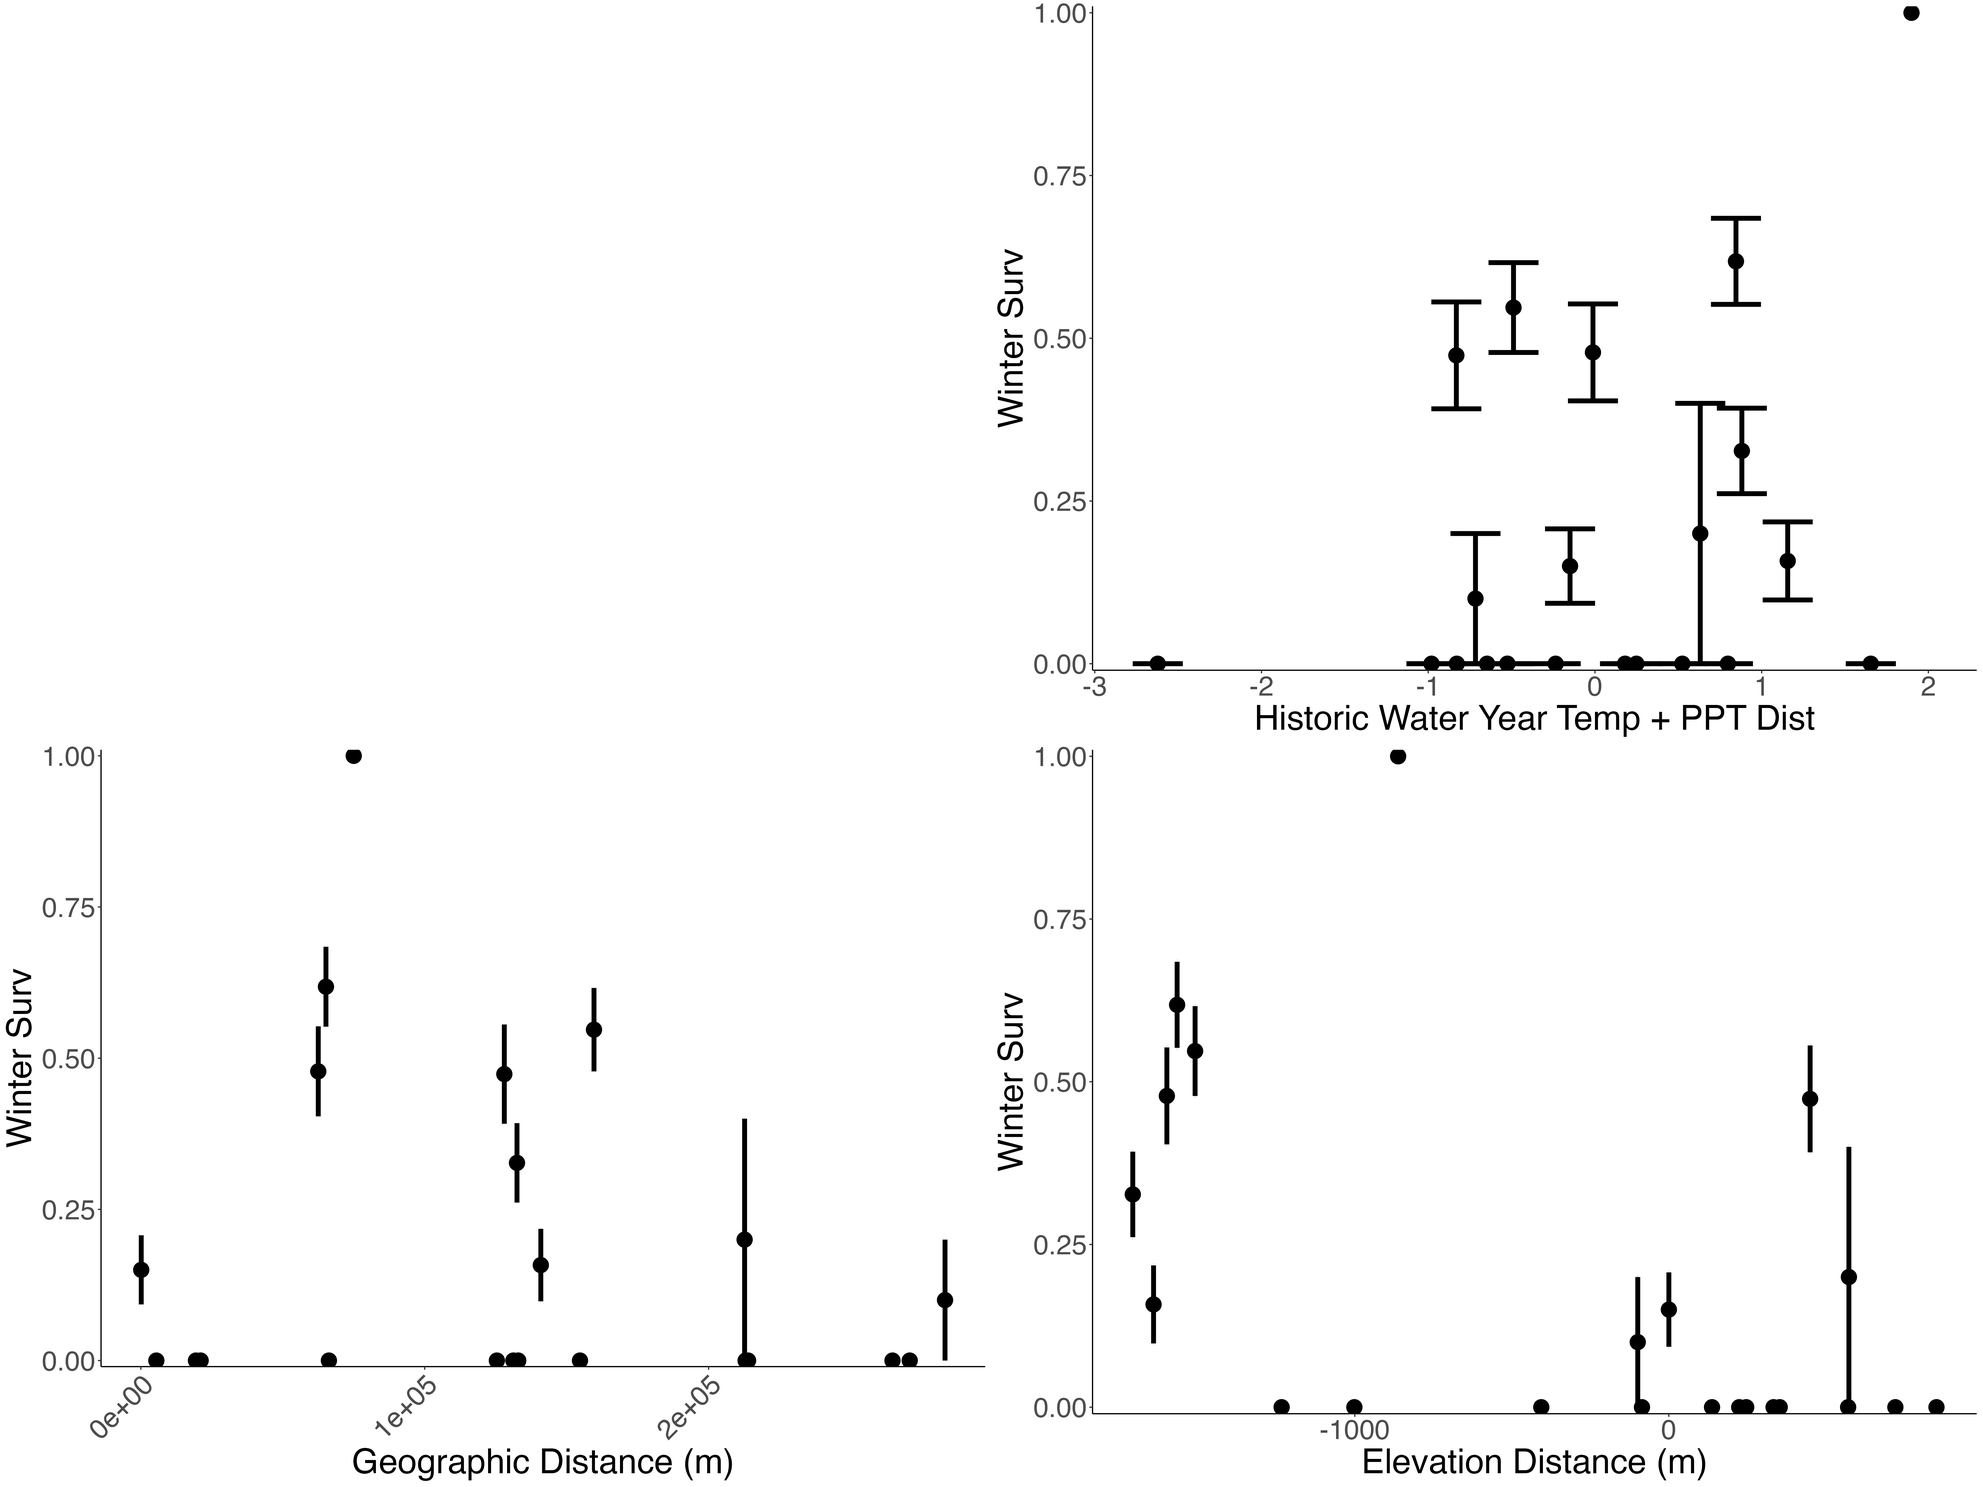
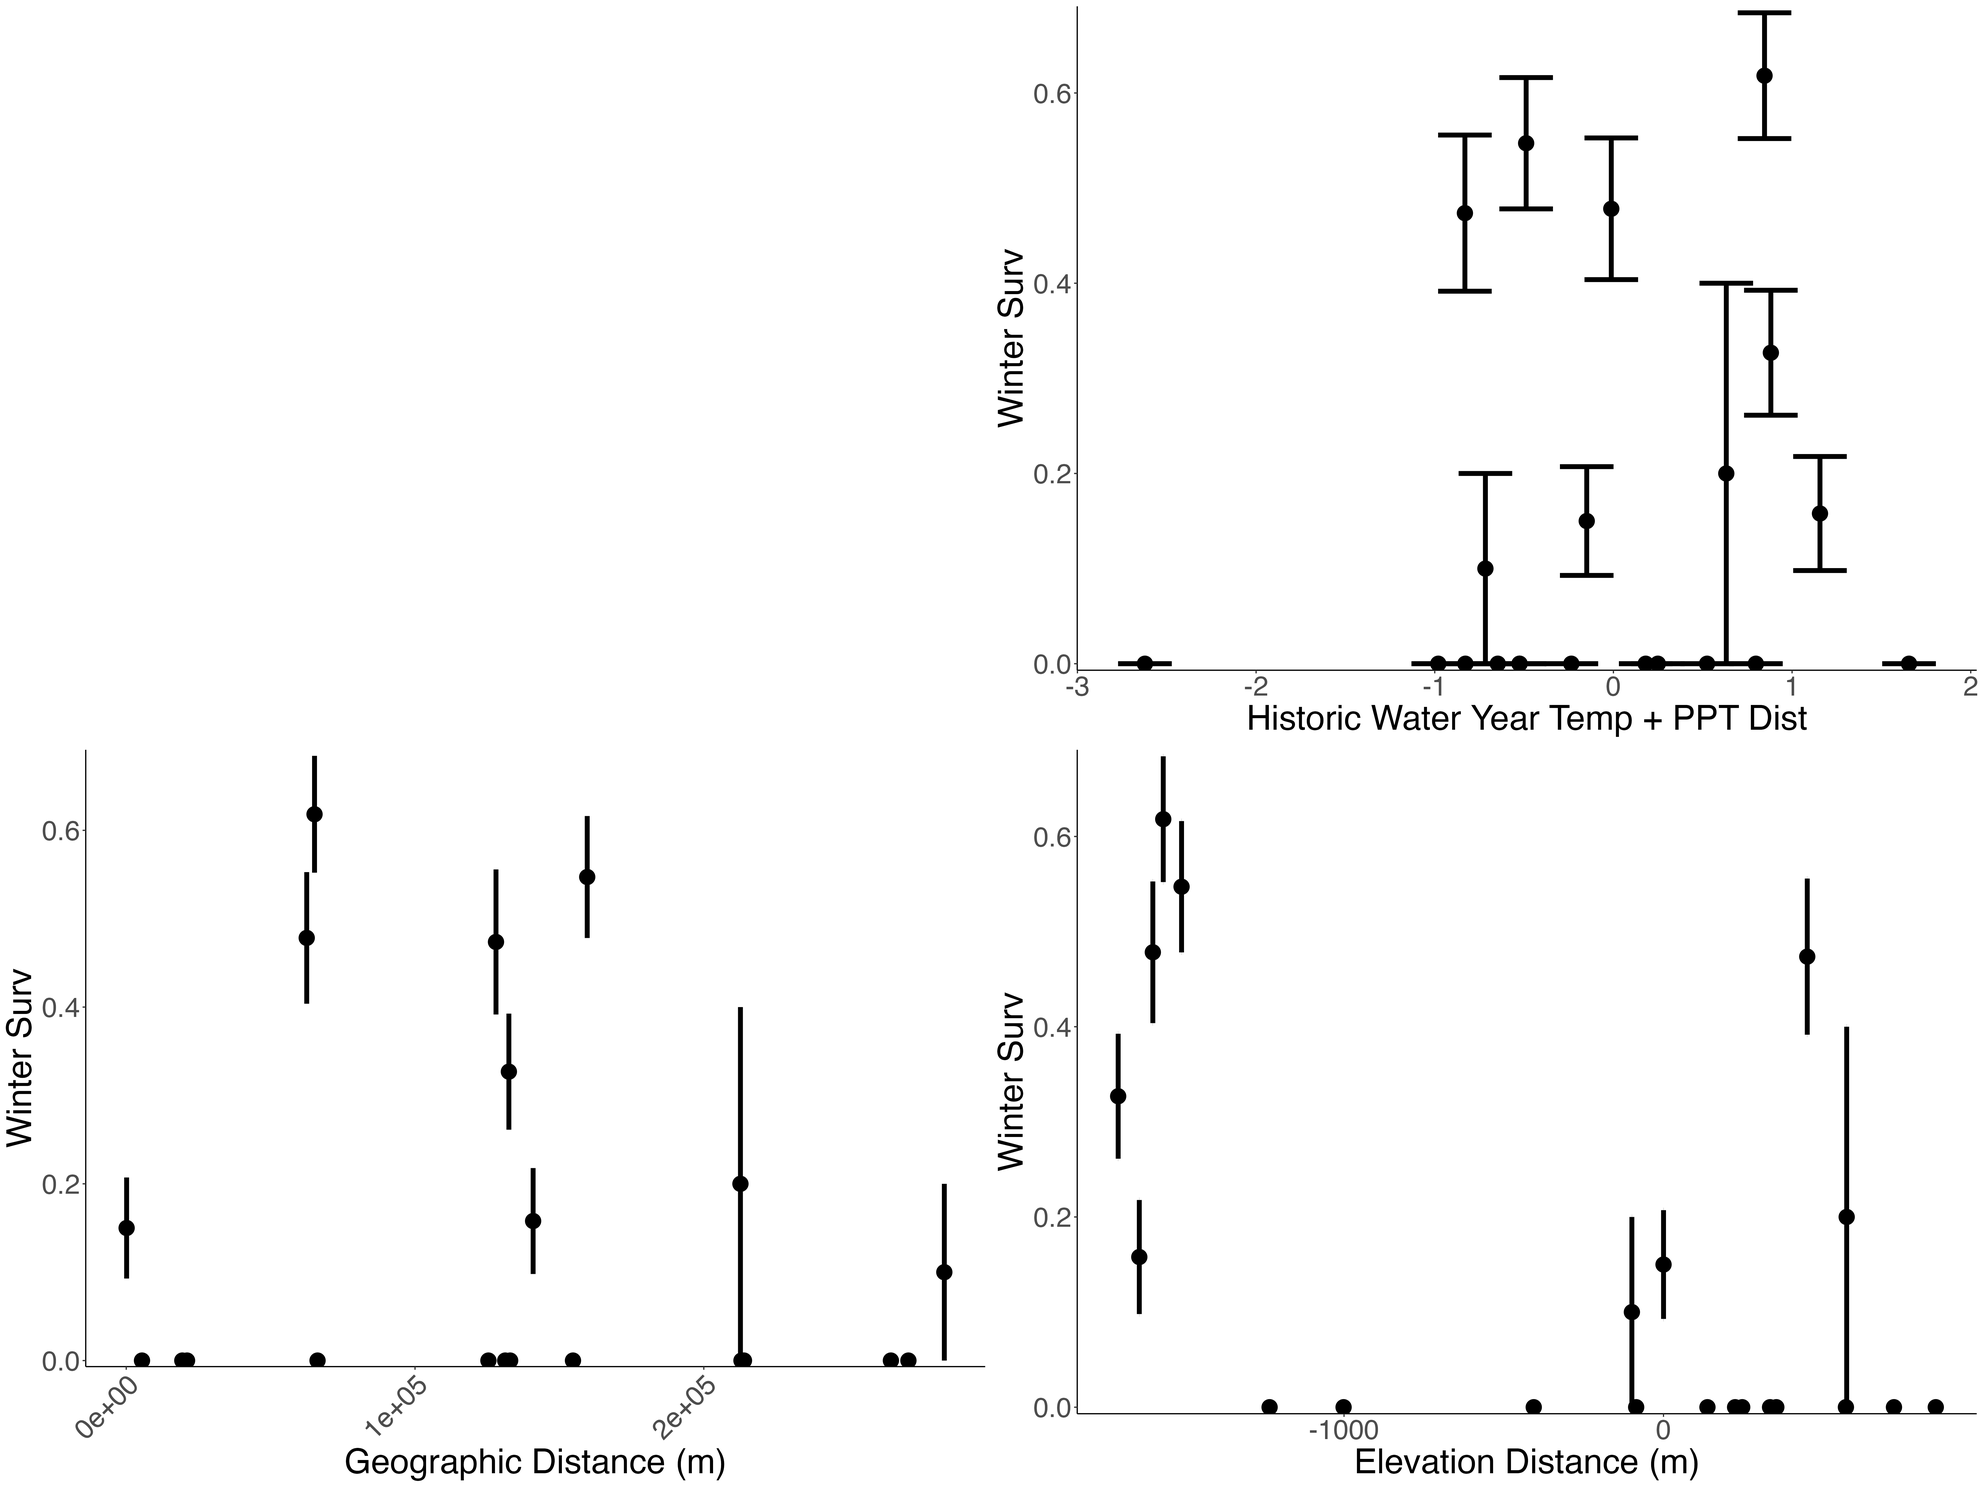
Removed WR from the scatter plots since it's not in the models.

diff --git a/scripts/WL2_OverWinter_Survival.html b/scripts/WL2_OverWinter_Survival.html
@@ -449,7 +449,7 @@ library(tidymodels)</code></pre>
 ## ✖ infer::t_test()       masks rstatix::t_test()
 ## ✖ Matrix::unpack()      masks tidyr::unpack()
 ## ✖ recipes::update()     masks Matrix::update(), stats::update()
-## • Use tidymodels_prefer() to resolve common conflicts.</code></pre>
+## • Learn how to get started at https://www.tidymodels.org/start/</code></pre>
 <pre class="r"><code>library(furrr) #Apply Mapping Functions in Parallel using Futures</code></pre>
 <pre><code>## Loading required package: future</code></pre>
 <pre class="r"><code>tidymodels_prefer()
@@ -679,7 +679,8 @@ xtabs(~WinterSurv, data=winter_surv) #334 dead post-winter out of 469 alive pre-
 <div id="scatterplots" class="section level3">
 <h3>Scatterplots</h3>
 <pre class="r"><code>#scatter plots
-WYCD_recent &lt;- winter_surv %&gt;% 
+WYCD_recent &lt;- winter_surv %&gt;%
+  filter(pop!=&quot;WR&quot;) %&gt;% 
   group_by(pop, elev_m, Wtr_Year_GD_Recent) %&gt;% 
   summarise(meanSurv=mean(WinterSurv, na.rm = TRUE), semSurv=sem(WinterSurv, na.rm=TRUE)) %&gt;% 
   ggplot(aes(x=Wtr_Year_GD_Recent, y=meanSurv, group = pop)) +
@@ -692,6 +693,7 @@ WYCD_recent &lt;- winter_surv %&gt;%
 <pre><code>## `summarise()` has grouped output by &#39;pop&#39;, &#39;elev_m&#39;. You can override using the
 ## `.groups` argument.</code></pre>
 <pre class="r"><code>GD &lt;- winter_surv %&gt;% 
+  filter(pop!=&quot;WR&quot;) %&gt;% 
   group_by(pop, elev_m, Wtr_Year_GD_Recent, Geographic_Dist) %&gt;% 
   summarise(meanSurv=mean(WinterSurv, na.rm = TRUE), semSurv=sem(WinterSurv, na.rm=TRUE)) %&gt;% 
   ggplot(aes(x=Geographic_Dist, y=meanSurv, group = pop)) +
@@ -704,6 +706,7 @@ WYCD_recent &lt;- winter_surv %&gt;%
 <pre><code>## `summarise()` has grouped output by &#39;pop&#39;, &#39;elev_m&#39;, &#39;Wtr_Year_GD_Recent&#39;. You
 ## can override using the `.groups` argument.</code></pre>
 <pre class="r"><code>ED &lt;- winter_surv %&gt;% 
+  filter(pop!=&quot;WR&quot;) %&gt;% 
   group_by(pop, elev_m, Elev_Dist) %&gt;% 
   summarise(meanSurv=mean(WinterSurv, na.rm = TRUE), semSurv=sem(WinterSurv, na.rm=TRUE)) %&gt;% 
   ggplot(aes(x=Elev_Dist, y=meanSurv, group = pop)) +
@@ -721,6 +724,7 @@ WYCD_recent &lt;- winter_surv %&gt;%
 <pre class="r"><code>ggsave(&quot;../output/WL2_Traits/WL2_WinterSurv_SCATTERS_Recent.png&quot;, width = 24, height = 18, units = &quot;in&quot;)</code></pre>
 <pre class="r"><code>#scatter plots
 WYCD_historic &lt;- winter_surv %&gt;% 
+  filter(pop!=&quot;WR&quot;) %&gt;% 
   group_by(pop, elev_m, Wtr_Year_GD_Historical) %&gt;% 
   summarise(meanSurv=mean(WinterSurv, na.rm = TRUE), semSurv=sem(WinterSurv, na.rm=TRUE)) %&gt;% 
   ggplot(aes(x=Wtr_Year_GD_Historical, y=meanSurv, group = pop)) +
@@ -738,6 +742,7 @@ WYCD_historic &lt;- winter_surv %&gt;%
 <pre class="r"><code>ggsave(&quot;../output/WL2_Traits/WL2_WinterSurv_SCATTERS_Historical.png&quot;, width = 24, height = 18, units = &quot;in&quot;)</code></pre>
 <pre class="r"><code>#scatter plots - recent
 WYCD_prob_recent &lt;- winter_surv_sub_dist %&gt;% 
+  filter(pop!=&quot;WR&quot;) %&gt;% 
   group_by(pop, elev_m, Wtr_Year_TempDist_Recent, Wtr_Year_TempDist_Historic) %&gt;% 
   summarise(meanEst=mean(WinterSurv, na.rm = TRUE), semEst=sem(WinterSurv, na.rm=TRUE)) %&gt;% 
   ggplot(aes(x=Wtr_Year_TempDist_Recent, y=meanEst, group = pop)) +
@@ -750,6 +755,7 @@ WYCD_prob_recent &lt;- winter_surv_sub_dist %&gt;%
 <pre><code>## `summarise()` has grouped output by &#39;pop&#39;, &#39;elev_m&#39;,
 ## &#39;Wtr_Year_TempDist_Recent&#39;. You can override using the `.groups` argument.</code></pre>
 <pre class="r"><code>GD_prob &lt;- winter_surv_sub_dist %&gt;% 
+  filter(pop!=&quot;WR&quot;) %&gt;% 
   group_by(pop, elev_m, Wtr_Year_TempDist_Recent, Geographic_Dist) %&gt;% 
   summarise(meanEst=mean(WinterSurv, na.rm = TRUE), semEst=sem(WinterSurv, na.rm=TRUE)) %&gt;% 
   ggplot(aes(x=Geographic_Dist, y=meanEst, group = pop)) +
@@ -762,6 +768,7 @@ WYCD_prob_recent &lt;- winter_surv_sub_dist %&gt;%
 <pre><code>## `summarise()` has grouped output by &#39;pop&#39;, &#39;elev_m&#39;,
 ## &#39;Wtr_Year_TempDist_Recent&#39;. You can override using the `.groups` argument.</code></pre>
 <pre class="r"><code>ED_prob &lt;- winter_surv_sub_dist %&gt;% 
+  filter(pop!=&quot;WR&quot;) %&gt;% 
   group_by(pop, elev_m, Elev_Dist) %&gt;% 
   summarise(meanEst=mean(WinterSurv, na.rm = TRUE), semEst=sem(WinterSurv, na.rm=TRUE)) %&gt;% 
   ggplot(aes(x=Elev_Dist, y=meanEst, group = pop)) +
@@ -779,6 +786,7 @@ WYCD_prob_recent &lt;- winter_surv_sub_dist %&gt;%
 <pre class="r"><code>ggsave(&quot;../output/WL2_Traits/WL2_WinterSurv_TmpSubDist_SCATTERS_Recent.png&quot;, width = 24, height = 18, units = &quot;in&quot;)</code></pre>
 <pre class="r"><code>#scatter plots - historic
 WYCD_prob_historic &lt;- winter_surv_sub_dist %&gt;% 
+  filter(pop!=&quot;WR&quot;) %&gt;% 
   group_by(pop, elev_m, Wtr_Year_TempDist_Recent, Wtr_Year_TempDist_Historic) %&gt;% 
   summarise(meanEst=mean(WinterSurv, na.rm = TRUE), semEst=sem(WinterSurv, na.rm=TRUE)) %&gt;% 
   ggplot(aes(x=Wtr_Year_TempDist_Historic, y=meanEst, group = pop)) +
@@ -796,6 +804,7 @@ WYCD_prob_historic &lt;- winter_surv_sub_dist %&gt;%
 <pre class="r"><code>ggsave(&quot;../output/WL2_Traits/WL2_WinterSurv_TmpSubDist_SCATTERS_Historic.png&quot;, width = 24, height = 18, units = &quot;in&quot;)</code></pre>
 <pre class="r"><code>#scatter plots - recent
 WYCD_prob_recent &lt;- winter_surv_sub_dist %&gt;% 
+  filter(pop!=&quot;WR&quot;) %&gt;% 
   group_by(pop, elev_m, Wtr_Year_PPTDist_Recent, Wtr_Year_PPTDist_Historic) %&gt;% 
   summarise(meanEst=mean(WinterSurv, na.rm = TRUE), semEst=sem(WinterSurv, na.rm=TRUE)) %&gt;% 
   ggplot(aes(x=Wtr_Year_PPTDist_Recent, y=meanEst, group = pop)) +
@@ -808,6 +817,7 @@ WYCD_prob_recent &lt;- winter_surv_sub_dist %&gt;%
 <pre><code>## `summarise()` has grouped output by &#39;pop&#39;, &#39;elev_m&#39;, &#39;Wtr_Year_PPTDist_Recent&#39;.
 ## You can override using the `.groups` argument.</code></pre>
 <pre class="r"><code>GD_prob &lt;- winter_surv_sub_dist %&gt;% 
+  filter(pop!=&quot;WR&quot;) %&gt;% 
   group_by(pop, elev_m, Wtr_Year_PPTDist_Recent, Geographic_Dist) %&gt;% 
   summarise(meanEst=mean(WinterSurv, na.rm = TRUE), semEst=sem(WinterSurv, na.rm=TRUE)) %&gt;% 
   ggplot(aes(x=Geographic_Dist, y=meanEst, group = pop)) +
@@ -820,6 +830,7 @@ WYCD_prob_recent &lt;- winter_surv_sub_dist %&gt;%
 <pre><code>## `summarise()` has grouped output by &#39;pop&#39;, &#39;elev_m&#39;, &#39;Wtr_Year_PPTDist_Recent&#39;.
 ## You can override using the `.groups` argument.</code></pre>
 <pre class="r"><code>ED_prob &lt;- winter_surv_sub_dist %&gt;% 
+  filter(pop!=&quot;WR&quot;) %&gt;% 
   group_by(pop, elev_m, Elev_Dist) %&gt;% 
   summarise(meanEst=mean(WinterSurv, na.rm = TRUE), semEst=sem(WinterSurv, na.rm=TRUE)) %&gt;% 
   ggplot(aes(x=Elev_Dist, y=meanEst, group = pop)) +
@@ -837,6 +848,7 @@ WYCD_prob_recent &lt;- winter_surv_sub_dist %&gt;%
 <pre class="r"><code>ggsave(&quot;../output/WL2_Traits/WL2_WinterSurv_PPTSubDist_SCATTERS_Recent.png&quot;, width = 24, height = 18, units = &quot;in&quot;)</code></pre>
 <pre class="r"><code>#scatter plots - historic
 WYCD_prob_historic &lt;- winter_surv_sub_dist %&gt;% 
+  filter(pop!=&quot;WR&quot;) %&gt;% 
   group_by(pop, elev_m, Wtr_Year_PPTDist_Recent, Wtr_Year_PPTDist_Historic) %&gt;% 
   summarise(meanEst=mean(WinterSurv, na.rm = TRUE), semEst=sem(WinterSurv, na.rm=TRUE)) %&gt;% 
   ggplot(aes(x=Wtr_Year_PPTDist_Historic, y=meanEst, group = pop)) +
@@ -853,7 +865,8 @@ WYCD_prob_historic &lt;- winter_surv_sub_dist %&gt;%
 ## a grob.</code></pre>
 <pre class="r"><code>ggsave(&quot;../output/WL2_Traits/WL2_WinterSurv_PPTSubDist_SCATTERS_Historic.png&quot;, width = 24, height = 18, units = &quot;in&quot;)</code></pre>
 <pre class="r"><code>#scatter plots - recent
-WYCD_prob_recent &lt;- winter_surv_sub_dist %&gt;% 
+WYCD_prob_recent &lt;- winter_surv_sub_dist %&gt;%
+  filter(pop!=&quot;WR&quot;) %&gt;% 
   group_by(pop, elev_m, Wtr_Year_TempPpt_Recent, Wtr_Year_TempPpt_Historic) %&gt;% 
   summarise(meanEst=mean(WinterSurv, na.rm = TRUE), semEst=sem(WinterSurv, na.rm=TRUE)) %&gt;% 
   ggplot(aes(x=Wtr_Year_TempPpt_Recent, y=meanEst, group = pop)) +
@@ -866,6 +879,7 @@ WYCD_prob_recent &lt;- winter_surv_sub_dist %&gt;%
 <pre><code>## `summarise()` has grouped output by &#39;pop&#39;, &#39;elev_m&#39;, &#39;Wtr_Year_TempPpt_Recent&#39;.
 ## You can override using the `.groups` argument.</code></pre>
 <pre class="r"><code>GD_prob &lt;- winter_surv_sub_dist %&gt;% 
+  filter(pop!=&quot;WR&quot;) %&gt;% 
   group_by(pop, elev_m, Wtr_Year_TempPpt_Recent, Geographic_Dist) %&gt;% 
   summarise(meanEst=mean(WinterSurv, na.rm = TRUE), semEst=sem(WinterSurv, na.rm=TRUE)) %&gt;% 
   ggplot(aes(x=Geographic_Dist, y=meanEst, group = pop)) +
@@ -878,6 +892,7 @@ WYCD_prob_recent &lt;- winter_surv_sub_dist %&gt;%
 <pre><code>## `summarise()` has grouped output by &#39;pop&#39;, &#39;elev_m&#39;, &#39;Wtr_Year_TempPpt_Recent&#39;.
 ## You can override using the `.groups` argument.</code></pre>
 <pre class="r"><code>ED_prob &lt;- winter_surv_sub_dist %&gt;% 
+  filter(pop!=&quot;WR&quot;) %&gt;% 
   group_by(pop, elev_m, Elev_Dist) %&gt;% 
   summarise(meanEst=mean(WinterSurv, na.rm = TRUE), semEst=sem(WinterSurv, na.rm=TRUE)) %&gt;% 
   ggplot(aes(x=Elev_Dist, y=meanEst, group = pop)) +
@@ -895,6 +910,7 @@ WYCD_prob_recent &lt;- winter_surv_sub_dist %&gt;%
 <pre class="r"><code>ggsave(&quot;../output/WL2_Traits/WL2_WinterSurv_TempPptSubDist_SCATTERS_Recent.png&quot;, width = 24, height = 18, units = &quot;in&quot;)</code></pre>
 <pre class="r"><code>#scatter plots - historic
 WYCD_prob_historic &lt;- winter_surv_sub_dist %&gt;% 
+  filter(pop!=&quot;WR&quot;) %&gt;% 
   group_by(pop, elev_m, Wtr_Year_TempPpt_Recent, Wtr_Year_TempPpt_Historic) %&gt;% 
   summarise(meanEst=mean(WinterSurv, na.rm = TRUE), semEst=sem(WinterSurv, na.rm=TRUE)) %&gt;% 
   ggplot(aes(x=Wtr_Year_TempPpt_Historic, y=meanEst, group = pop)) +

diff --git a/scripts/WL2_OverWinter_Survival.md b/scripts/WL2_OverWinter_Survival.md
@@ -147,7 +147,7 @@ library(tidymodels)
 ## ✖ infer::t_test()       masks rstatix::t_test()
 ## ✖ Matrix::unpack()      masks tidyr::unpack()
 ## ✖ recipes::update()     masks Matrix::update(), stats::update()
-## • Use tidymodels_prefer() to resolve common conflicts.
+## • Learn how to get started at https://www.tidymodels.org/start/
 ```
 
 ``` r
@@ -498,7 +498,8 @@ winter_surv %>%
 
 ``` r
 #scatter plots
-WYCD_recent <- winter_surv %>% 
+WYCD_recent <- winter_surv %>%
+  filter(pop!="WR") %>% 
   group_by(pop, elev_m, Wtr_Year_GD_Recent) %>% 
   summarise(meanSurv=mean(WinterSurv, na.rm = TRUE), semSurv=sem(WinterSurv, na.rm=TRUE)) %>% 
   ggplot(aes(x=Wtr_Year_GD_Recent, y=meanSurv, group = pop)) +
@@ -517,6 +518,7 @@ WYCD_recent <- winter_surv %>%
 
 ``` r
 GD <- winter_surv %>% 
+  filter(pop!="WR") %>% 
   group_by(pop, elev_m, Wtr_Year_GD_Recent, Geographic_Dist) %>% 
   summarise(meanSurv=mean(WinterSurv, na.rm = TRUE), semSurv=sem(WinterSurv, na.rm=TRUE)) %>% 
   ggplot(aes(x=Geographic_Dist, y=meanSurv, group = pop)) +
@@ -535,6 +537,7 @@ GD <- winter_surv %>%
 
 ``` r
 ED <- winter_surv %>% 
+  filter(pop!="WR") %>% 
   group_by(pop, elev_m, Elev_Dist) %>% 
   summarise(meanSurv=mean(WinterSurv, na.rm = TRUE), semSurv=sem(WinterSurv, na.rm=TRUE)) %>% 
   ggplot(aes(x=Elev_Dist, y=meanSurv, group = pop)) +
@@ -568,6 +571,7 @@ ggsave("../output/WL2_Traits/WL2_WinterSurv_SCATTERS_Recent.png", width = 24, he
 ``` r
 #scatter plots
 WYCD_historic <- winter_surv %>% 
+  filter(pop!="WR") %>% 
   group_by(pop, elev_m, Wtr_Year_GD_Historical) %>% 
   summarise(meanSurv=mean(WinterSurv, na.rm = TRUE), semSurv=sem(WinterSurv, na.rm=TRUE)) %>% 
   ggplot(aes(x=Wtr_Year_GD_Historical, y=meanSurv, group = pop)) +
@@ -601,6 +605,7 @@ ggsave("../output/WL2_Traits/WL2_WinterSurv_SCATTERS_Historical.png", width = 24
 ``` r
 #scatter plots - recent
 WYCD_prob_recent <- winter_surv_sub_dist %>% 
+  filter(pop!="WR") %>% 
   group_by(pop, elev_m, Wtr_Year_TempDist_Recent, Wtr_Year_TempDist_Historic) %>% 
   summarise(meanEst=mean(WinterSurv, na.rm = TRUE), semEst=sem(WinterSurv, na.rm=TRUE)) %>% 
   ggplot(aes(x=Wtr_Year_TempDist_Recent, y=meanEst, group = pop)) +
@@ -619,6 +624,7 @@ WYCD_prob_recent <- winter_surv_sub_dist %>%
 
 ``` r
 GD_prob <- winter_surv_sub_dist %>% 
+  filter(pop!="WR") %>% 
   group_by(pop, elev_m, Wtr_Year_TempDist_Recent, Geographic_Dist) %>% 
   summarise(meanEst=mean(WinterSurv, na.rm = TRUE), semEst=sem(WinterSurv, na.rm=TRUE)) %>% 
   ggplot(aes(x=Geographic_Dist, y=meanEst, group = pop)) +
@@ -637,6 +643,7 @@ GD_prob <- winter_surv_sub_dist %>%
 
 ``` r
 ED_prob <- winter_surv_sub_dist %>% 
+  filter(pop!="WR") %>% 
   group_by(pop, elev_m, Elev_Dist) %>% 
   summarise(meanEst=mean(WinterSurv, na.rm = TRUE), semEst=sem(WinterSurv, na.rm=TRUE)) %>% 
   ggplot(aes(x=Elev_Dist, y=meanEst, group = pop)) +
@@ -670,6 +677,7 @@ ggsave("../output/WL2_Traits/WL2_WinterSurv_TmpSubDist_SCATTERS_Recent.png", wid
 ``` r
 #scatter plots - historic
 WYCD_prob_historic <- winter_surv_sub_dist %>% 
+  filter(pop!="WR") %>% 
   group_by(pop, elev_m, Wtr_Year_TempDist_Recent, Wtr_Year_TempDist_Historic) %>% 
   summarise(meanEst=mean(WinterSurv, na.rm = TRUE), semEst=sem(WinterSurv, na.rm=TRUE)) %>% 
   ggplot(aes(x=Wtr_Year_TempDist_Historic, y=meanEst, group = pop)) +
@@ -703,6 +711,7 @@ ggsave("../output/WL2_Traits/WL2_WinterSurv_TmpSubDist_SCATTERS_Historic.png", w
 ``` r
 #scatter plots - recent
 WYCD_prob_recent <- winter_surv_sub_dist %>% 
+  filter(pop!="WR") %>% 
   group_by(pop, elev_m, Wtr_Year_PPTDist_Recent, Wtr_Year_PPTDist_Historic) %>% 
   summarise(meanEst=mean(WinterSurv, na.rm = TRUE), semEst=sem(WinterSurv, na.rm=TRUE)) %>% 
   ggplot(aes(x=Wtr_Year_PPTDist_Recent, y=meanEst, group = pop)) +
@@ -721,6 +730,7 @@ WYCD_prob_recent <- winter_surv_sub_dist %>%
 
 ``` r
 GD_prob <- winter_surv_sub_dist %>% 
+  filter(pop!="WR") %>% 
   group_by(pop, elev_m, Wtr_Year_PPTDist_Recent, Geographic_Dist) %>% 
   summarise(meanEst=mean(WinterSurv, na.rm = TRUE), semEst=sem(WinterSurv, na.rm=TRUE)) %>% 
   ggplot(aes(x=Geographic_Dist, y=meanEst, group = pop)) +
@@ -739,6 +749,7 @@ GD_prob <- winter_surv_sub_dist %>%
 
 ``` r
 ED_prob <- winter_surv_sub_dist %>% 
+  filter(pop!="WR") %>% 
   group_by(pop, elev_m, Elev_Dist) %>% 
   summarise(meanEst=mean(WinterSurv, na.rm = TRUE), semEst=sem(WinterSurv, na.rm=TRUE)) %>% 
   ggplot(aes(x=Elev_Dist, y=meanEst, group = pop)) +
@@ -772,6 +783,7 @@ ggsave("../output/WL2_Traits/WL2_WinterSurv_PPTSubDist_SCATTERS_Recent.png", wid
 ``` r
 #scatter plots - historic
 WYCD_prob_historic <- winter_surv_sub_dist %>% 
+  filter(pop!="WR") %>% 
   group_by(pop, elev_m, Wtr_Year_PPTDist_Recent, Wtr_Year_PPTDist_Historic) %>% 
   summarise(meanEst=mean(WinterSurv, na.rm = TRUE), semEst=sem(WinterSurv, na.rm=TRUE)) %>% 
   ggplot(aes(x=Wtr_Year_PPTDist_Historic, y=meanEst, group = pop)) +
@@ -804,7 +816,8 @@ ggsave("../output/WL2_Traits/WL2_WinterSurv_PPTSubDist_SCATTERS_Historic.png", w
 
 ``` r
 #scatter plots - recent
-WYCD_prob_recent <- winter_surv_sub_dist %>% 
+WYCD_prob_recent <- winter_surv_sub_dist %>%
+  filter(pop!="WR") %>% 
   group_by(pop, elev_m, Wtr_Year_TempPpt_Recent, Wtr_Year_TempPpt_Historic) %>% 
   summarise(meanEst=mean(WinterSurv, na.rm = TRUE), semEst=sem(WinterSurv, na.rm=TRUE)) %>% 
   ggplot(aes(x=Wtr_Year_TempPpt_Recent, y=meanEst, group = pop)) +
@@ -823,6 +836,7 @@ WYCD_prob_recent <- winter_surv_sub_dist %>%
 
 ``` r
 GD_prob <- winter_surv_sub_dist %>% 
+  filter(pop!="WR") %>% 
   group_by(pop, elev_m, Wtr_Year_TempPpt_Recent, Geographic_Dist) %>% 
   summarise(meanEst=mean(WinterSurv, na.rm = TRUE), semEst=sem(WinterSurv, na.rm=TRUE)) %>% 
   ggplot(aes(x=Geographic_Dist, y=meanEst, group = pop)) +
@@ -841,6 +855,7 @@ GD_prob <- winter_surv_sub_dist %>%
 
 ``` r
 ED_prob <- winter_surv_sub_dist %>% 
+  filter(pop!="WR") %>% 
   group_by(pop, elev_m, Elev_Dist) %>% 
   summarise(meanEst=mean(WinterSurv, na.rm = TRUE), semEst=sem(WinterSurv, na.rm=TRUE)) %>% 
   ggplot(aes(x=Elev_Dist, y=meanEst, group = pop)) +
@@ -874,6 +889,7 @@ ggsave("../output/WL2_Traits/WL2_WinterSurv_TempPptSubDist_SCATTERS_Recent.png",
 ``` r
 #scatter plots - historic
 WYCD_prob_historic <- winter_surv_sub_dist %>% 
+  filter(pop!="WR") %>% 
   group_by(pop, elev_m, Wtr_Year_TempPpt_Recent, Wtr_Year_TempPpt_Historic) %>% 
   summarise(meanEst=mean(WinterSurv, na.rm = TRUE), semEst=sem(WinterSurv, na.rm=TRUE)) %>% 
   ggplot(aes(x=Wtr_Year_TempPpt_Historic, y=meanEst, group = pop)) +
